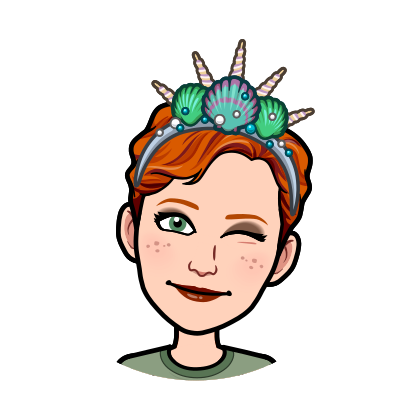
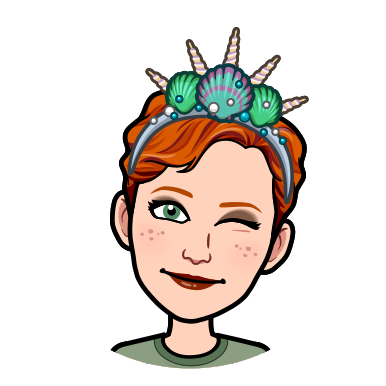
hero styling and element spacing

Changed region(s): [[0.2798, 0.0622, 0.8083, 0.7461], [0.2798, 0.7461, 0.715, 0.9637], [0.4041, 0.5907, 0.5907, 0.7772]]

diff --git a/assets/css/style.css b/assets/css/style.css
@@ -4,18 +4,21 @@
 
 body {
   color: #f3e5ab;
+  font-family: "League Script", "La Belle Aurore", serif;
 }
 
 section, footer {
   margin: 3%;
-  border-bottom: 10px groove #f3e5ab;
+}
+
+section p {
+  font-family: "Bad Script", serif;
 }
 
 /* NAVIGATION STYLES START */
 header {
   display: flex;
   justify-content: space-around;
-  font-family: "League Script", Sofia, serif;
 }
 
 nav ul {
@@ -42,19 +45,30 @@ nav ul li a {
   display: flex;
   justify-content: center;
   align-items: center;
-  line-height: 0.5;
+  font-size: 2.5rem;
 }
 
 .home img {
   border-radius: 250em;
   box-shadow: 0 0 50px #f3e5ab;
-  margin: 0 25px;
+  margin: 0 50px;
 }
 
-span {
-  font-style: italic;
+.home div {
+  display: block;
+  letter-spacing: 2px;
+  line-height: 1.2;
+  font-family: "Bad Script", serif;
 }
 
+.home h1 {
+  margin-bottom: 1px;
+}
+
+.home p {
+  margin-top: 1px;
+  font-size: 1.5rem;
+}
 /* HERO STYLES END */
 
 

diff --git a/index.html b/index.html
@@ -3,7 +3,7 @@
 <html lang="en">
   <head>
     <link rel="stylesheet" href="./assets/css/style.css" />
-    <link rel="stylesheet" href="https://fonts.googleapis.com/css?family=League Script|La Belle Aurore|Sofia">
+    <link rel="stylesheet" href="https://fonts.googleapis.com/css?family=League Script|La Belle Aurore|Bad Script|Sofia">
     <meta charset="UTF-8" name="viewport" content="width-device-width, initial-scale=1.0" />
     <title>LSabin Portfolio</title>
   </head>
@@ -32,10 +32,10 @@
     <!-- hero -->
     <section id="home" class="home">
       <img src="./assets/images/Wink Bitmoji - Sept 2021.png" alt="Bitmoji female with red hair and shell crown winking" />
-      <h1>Hi! I'm
-        <span>Loria!</span>
-      </h1>
-      <p>(lor-uh)</p>
+      <div>
+        <h1>Hi! I'm Loria!</h1>
+        <p>(lor-uh)</p>
+      </div>
     </section>
 
     <!-- about -->
